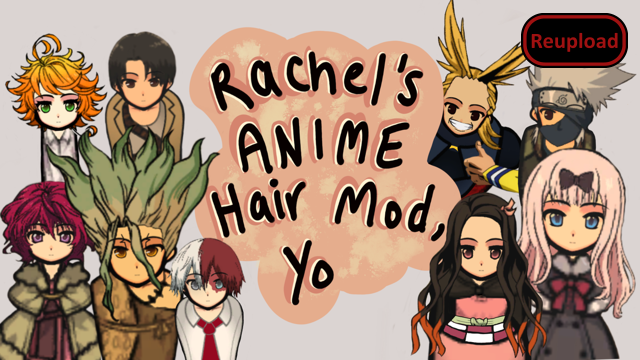
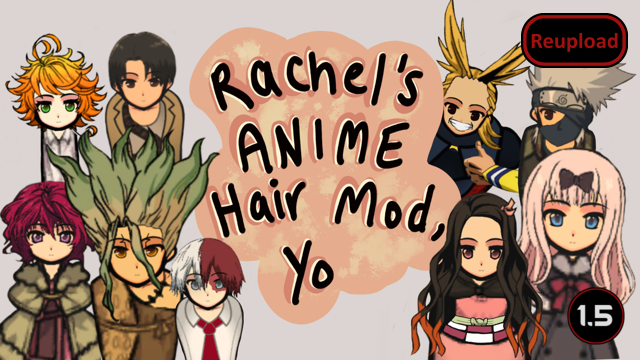
Mod updated for 1.5 and passed autotests

Changed region(s): [[0.875, 0.7944, 1.0, 0.9778]]

diff --git a/README.md b/README.md
@@ -49,10 +49,13 @@ If you have a request for a specific character, leave a comment and I just might
 
 -  See if the the error persists if you just have this mod and its requirements active.
 -  If not, try adding your other mods until it happens again.
--  Post your error-log using https://steamcommunity.com/workshop/filedetails/?id=818773962]HugsLib and command Ctrl+F12
+-  Post your error-log using https://steamcommunity.com/workshop/filedetails/?id=818773962]HugsLib or the standalone https://steamcommunity.com/sharedfiles/filedetails/?id=2873415404]Uploader and command Ctrl+F12
 -  For best support, please use the Discord-channel for error-reporting.
 -  Do not report errors by making a discussion-thread, I get no notification of that.
 -  If you have the solution for a problem, please post it to the GitHub repository.
+-  Use https://github.com/RimSort/RimSort/releases/latest]RimSort to sort your mods
 
 
+
+https://steamcommunity.com/sharedfiles/filedetails/changelog/2662195015]![Image](https://img.shields.io/github/v/release/emipa606/RachelsAnimeHairModYo?label=latest%20version&style=plastic&color=9f1111&labelColor=black)
 
